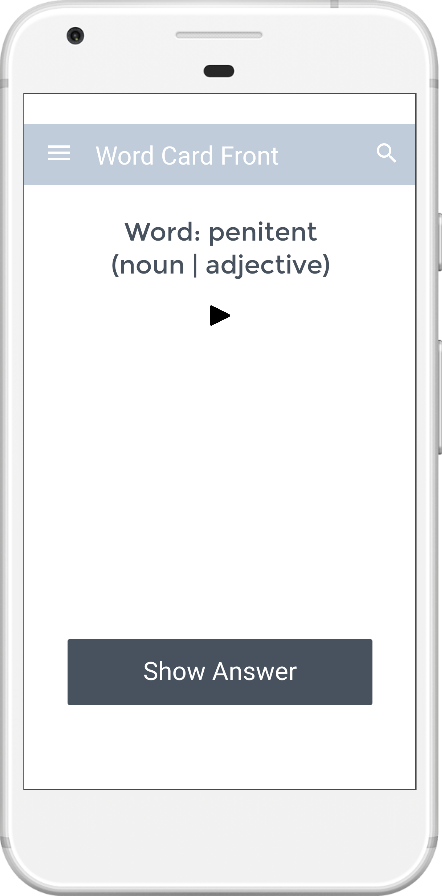
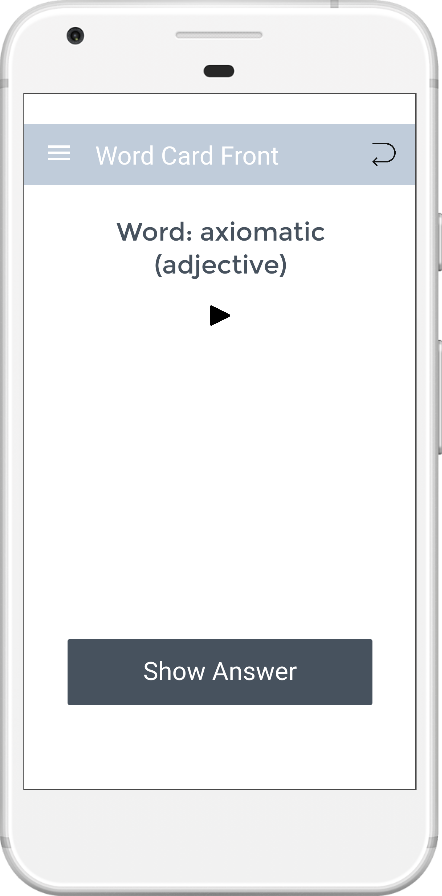
Added Glide

Changed region(s): [[0.2353, 0.25, 0.7647, 0.3125], [0.8529, 0.1562, 0.9118, 0.1875]]

diff --git a/app/src/main/java/com/gtatiya/flashvocab/HomeScreen.java b/app/src/main/java/com/gtatiya/flashvocab/HomeScreen.java
@@ -4,6 +4,8 @@ import android.os.Bundle;
 import android.support.v7.app.AppCompatActivity;
 import android.widget.ImageView;
 
+import com.bumptech.glide.Glide;
+
 /**
  * Created by Gyan Tatiya on 3/Oct/17.
  */
@@ -19,7 +21,9 @@ public class HomeScreen extends AppCompatActivity {
         imageView= (ImageView) findViewById(R.id.img_splash);
 
         //Glide.with(this).load("https://vergecampus.com/wp-content/uploads/2015/04/flashcards.png").into(imageView);
-        //Glide.with(this).load("https://drive.google.com/uc?export=view&id=0By6GDPYLwp2cU0FaOThIcG9kRDQ").into(imageView);
+        Glide.with(this).load("https://drive.google.com/uc?export=view&id=0B6uiOVPlyIu-UVVCWm5EVThtUW8").into(imageView);
+        //Glide.with(this).load("https://drive.google.com/uc?export=view&id=0B6uiOVPlyIu-OTR1VjV2VEplZGc").into(imageView);
+        //Glide.with(this).load("https://drive.google.com/uc?export=view&id=0B6uiOVPlyIu-MkdyMWE1cWd6Rlk").into(imageView);
 
 
     }
